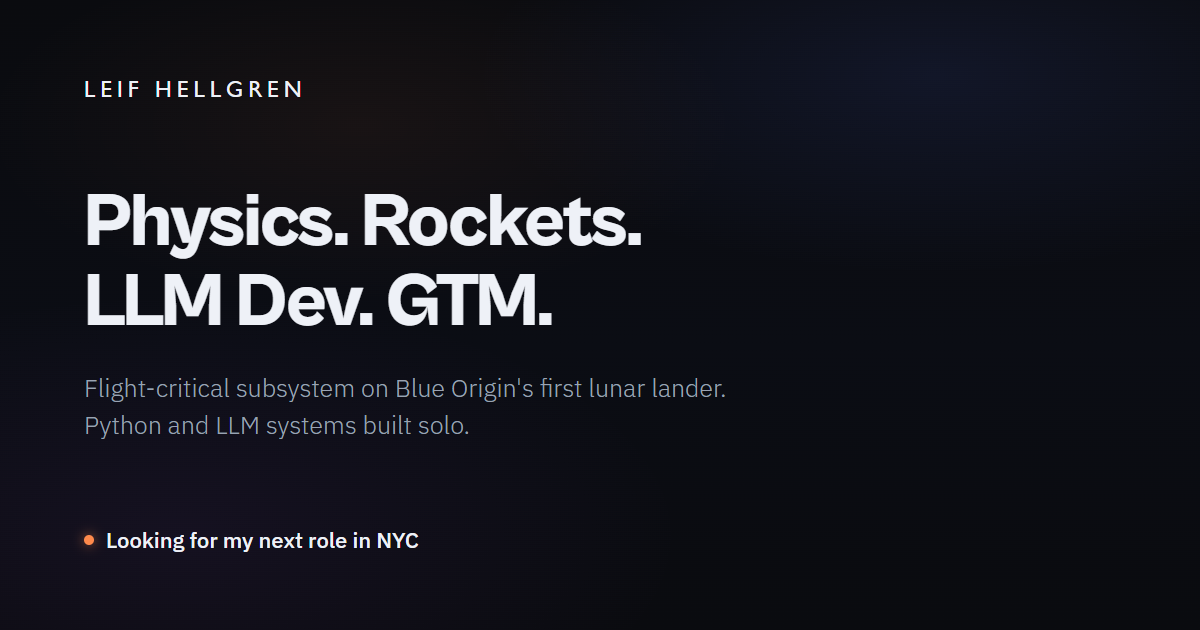
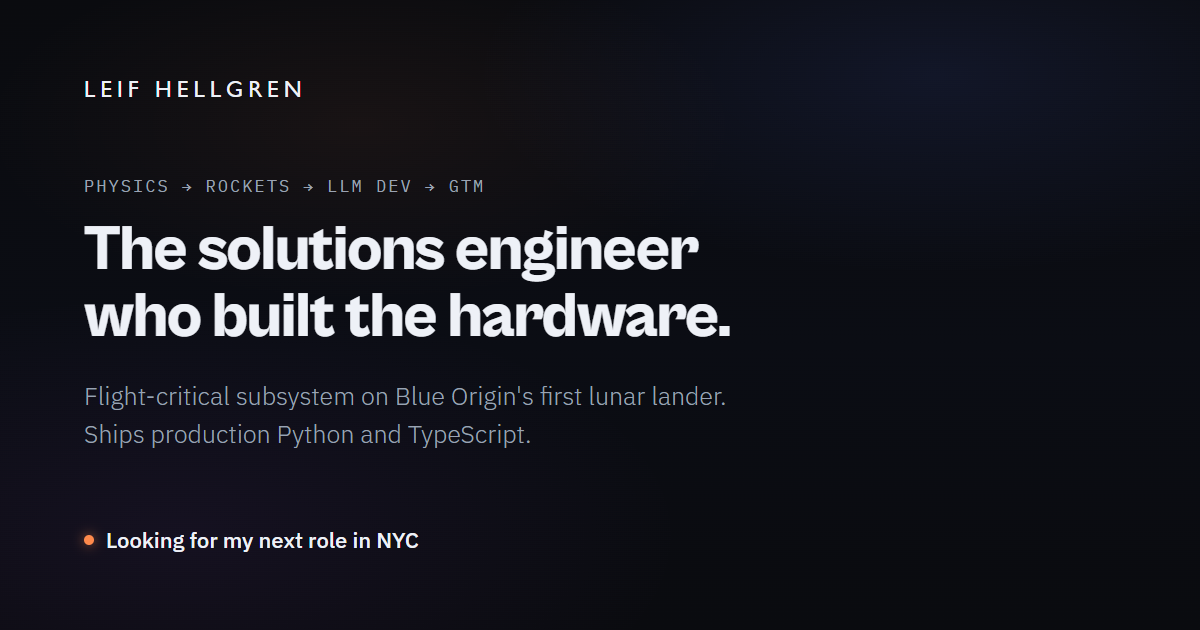
Reposition around one lane: solutions / forward-deployed engineering
The site was making four co-equal headline claims, which reads as optionality
to someone hiring for a specific slot. Same content, told as one story.

- headline states the lane and the differentiator in one sentence:
  'The solutions engineer who built the hardware.'
- the physics -> rockets -> LLM dev -> GTM arc is kept, promoted to a kicker
  above the headline, so it reads as trajectory and range rather than four
  competing claims. The four evidence lines below it are unchanged.
- Now card leads with the lane, and its bullets shift from role families
  ('here are four jobs I would take') to capabilities ('here is what I bring
  to one job'): debugging alongside a customer's engineers, shipping Python
  and TypeScript, building the GTM machinery, handling hard domains.
- #/now deep page targets solutions and forward-deployed engineering first,
  with GTM, AI tooling, quant, and propulsion below it as adjacent
- title, description, og, twitter, and JSON-LD jobTitle all say Solutions
  Engineer; og-card regenerated to match
- headline clamp retuned for the longer lines, verified 320-1920px

Physics, rockets, and trading are now the evidence under one claim rather
than four things competing to be the claim.

Changed region(s): [[0.0617, 0.2714, 0.6167, 0.5429], [0.0617, 0.6032, 0.6167, 0.7238], [0.37, 0.2714, 0.4008, 0.3016]]

diff --git a/index.html b/index.html
@@ -3,11 +3,11 @@
 <head>
 <meta charset="UTF-8" />
 <meta name="viewport" content="width=device-width, initial-scale=1.0" />
-<title>Leif Hellgren · Software Engineer</title>
-<meta name="description" content="Physics-trained engineer. Owned a flight-critical subsystem end to end on Blue Origin's first lunar lander, then built Python and LLM systems solo. Moving to NYC, September 2026." />
+<title>Leif Hellgren · Solutions Engineer</title>
+<meta name="description" content="Solutions and forward-deployed engineering. Owned a flight-critical subsystem on Blue Origin's first lunar lander, ships production Python and TypeScript, and builds the GTM machinery too. Moving to NYC, September 2026." />
 <meta name="author" content="Leif Hellgren" />
-<meta property="og:title" content="Leif Hellgren · Software Engineer" />
-<meta property="og:description" content="Physics at UCSB and founded its first rocket club. Flight-critical subsystem on Blue Origin's first lunar lander. Python and LLM systems built solo. Moving to NYC, September 2026." />
+<meta property="og:title" content="Leif Hellgren · Solutions Engineer" />
+<meta property="og:description" content="The solutions engineer who built the hardware. Flight-critical subsystem on Blue Origin's first lunar lander, production Python and TypeScript, and the outbound system at a startup. Moving to NYC, September 2026." />
 <meta property="og:type" content="website" />
 <meta property="og:site_name" content="Leif Hellgren" />
 <meta property="og:locale" content="en_US" />
@@ -46,10 +46,10 @@
   "name": "Leif Hellgren",
   "url": "https://leif-hellgren1.github.io/",
   "email": "mailto:leif@exelor.com",
-  "jobTitle": "Software Engineer",
-  "description": "Physics-trained engineer. Owned a flight-critical cryogenic subsystem end to end on Blue Origin's first lunar lander, then built Python and LLM systems independently.",
+  "jobTitle": "Solutions Engineer",
+  "description": "Solutions and forward-deployed engineer. Owned a flight-critical cryogenic subsystem end to end on Blue Origin's first lunar lander, then built Python and LLM systems independently.",
   "alumniOf": { "@type": "CollegeOrUniversity", "name": "University of California, Santa Barbara" },
-  "knowsAbout": ["Python", "TypeScript", "Next.js", "LLM systems", "Systems engineering", "Fluid and thermal analysis", "Go-to-market engineering"],
+  "knowsAbout": ["Solutions engineering", "Forward-deployed engineering", "Python", "TypeScript", "Next.js", "LLM systems", "Systems engineering", "Go-to-market engineering"],
   "sameAs": [
     "https://github.com/leif-hellgren1",
     "https://www.linkedin.com/in/leif-hellgren-a1177216a/"
@@ -295,11 +295,14 @@
     /* seat the disk into the dark: soft dark base + faint accent halo (scene shading, not UI color) */
     filter: drop-shadow(0 0 34px rgba(0,0,0,0.55)) drop-shadow(0 0 60px hsla(var(--p1,210),60%,55%,0.14));
   }
+  /* the trajectory, kept as a kicker: it shows range without competing with the headline
+     for what the role actually is */
+  .hero-glass .arc { color:var(--ink-dim); margin-bottom:var(--space-4); }
   .hero-glass h1 {
     font-family:"Cabinet Grotesk","IBM Plex Sans",sans-serif; font-weight:800;
-    /* sized so the longer line ("Physics. Rockets.") fits the column without wrapping at
-       every width; .hline below forbids wrapping, so this has to fit outright */
-    font-size:clamp(1.5rem,9.5vw,3.9rem); line-height:1.06; letter-spacing:-0.02em;
+    /* sized so the longer line ("who built the hardware.") fits the column without wrapping
+       at every width; .hline below forbids wrapping, so this has to fit outright */
+    font-size:clamp(1.2rem,7.2vw,2.95rem); line-height:1.06; letter-spacing:-0.02em;
   }
   /* one line when it fits; the only permitted break is between these two halves */
   .hero-glass h1 .hline { white-space:nowrap; }
@@ -570,7 +573,8 @@
       <!-- STOP 0 · HERO -->
       <div class="stop hero-stop" data-loc="top">
         <div class="hero-glass glass" id="heroGlass">
-          <h1><span class="hline">Physics. Rockets.</span> <span class="hline">LLM Dev. GTM.</span></h1>
+          <div class="mono arc">Physics &rarr; Rockets &rarr; LLM Dev &rarr; GTM</div>
+          <h1><span class="hline">The solutions engineer</span> <span class="hline">who built the hardware.</span></h1>
           <div class="tagline">
             <p>Studied physics at UCSB and founded its first rocket club.</p>
             <p>Delivered a flight-critical subsystem on a first-generation lunar lander at Blue Origin.</p>
@@ -595,12 +599,12 @@
             <span class="chip live">Actively seeking</span>
             <span class="chip moving">Moving to NYC Sept 2026</span>
           </div>
-          <p class="body">Most recently a contract at Launchpoint, split between product engineering and sales: shipped features into a live Next.js codebase, stood up the CRM, built an outbound system that booked qualified meetings. I build with agents and LLM tooling by default.</p>
+          <p class="body">Solutions and forward-deployed engineering, or GTM engineering: the roles where one person has to know the product deeply, build what the customer needs, and be credible in the room. Most recently a contract at Launchpoint split between product engineering and sales: shipped features into a live Next.js codebase, stood up the CRM, built an outbound system that booked qualified meetings.</p>
           <ul class="points">
-            <li>GTM and solutions engineering, technical sales</li>
-            <li>AI tooling and automation systems</li>
-            <li>Quant and trading technology, backtesting through execution</li>
-            <li>Propulsion, fluid systems, and systems engineering</li>
+            <li>Deep enough to debug alongside a customer's engineers</li>
+            <li>Ships production code in Python and TypeScript</li>
+            <li>Builds the GTM machinery too: CRM, outbound, scoring models</li>
+            <li>At home when the domain is hard, from cryogenics to market data</li>
           </ul>
           <a class="deep-link" href="#/now">Read more <span>→</span></a>
         </div>
@@ -1215,7 +1219,8 @@ const DEEP = {
     body: `
       <h3>Roles I'm targeting</h3>
       <ul>
-        <li><strong>GTM engineering, solutions engineering, and technical sales</strong>: I can go as deep as a customer's engineers, and the sales half of my Launchpoint contract showed me I genuinely enjoy the work.</li>
+        <li><strong>Solutions and forward-deployed engineering</strong>: I can go as deep as a customer's engineers, and the sales half of my Launchpoint contract showed me I genuinely enjoy the work.</li>
+        <li><strong>GTM engineering and technical sales</strong>, where the same person builds the tooling and runs the motion.</li>
         <li><strong>AI tooling and systems development</strong>, for teams that want someone who builds the automation rather than just using it.</li>
         <li><strong>Quant and trading technology</strong>: research tooling, backtesting infrastructure, and execution software.</li>
         <li><strong>Propulsion, fluid systems, mechanical, and systems engineering</strong>, where my flight-hardware ownership applies directly.</li>

diff --git a/tools/make-og.py b/tools/make-og.py
@@ -14,7 +14,7 @@ TEMPLATE = """
 <!DOCTYPE html><html><head><meta charset="utf-8">
 <link rel="preconnect" href="https://fonts.googleapis.com">
 <link rel="preconnect" href="https://fonts.gstatic.com" crossorigin>
-<link href="https://fonts.googleapis.com/css2?family=IBM+Plex+Sans:wght@300;500&family=Cabin:wght@500&display=swap" rel="stylesheet">
+<link href="https://fonts.googleapis.com/css2?family=IBM+Plex+Sans:wght@300;500&family=IBM+Plex+Mono:wght@400&family=Cabin:wght@500&display=swap" rel="stylesheet">
 <link href="https://api.fontshare.com/v2/css?f[]=cabinet-grotesk@800&display=swap" rel="stylesheet">
 <style>
   :root { --bg:#0a0b0f; --ink:#eef1f7; --ink-dim:#9aa3b2; --accent:#ff8a4c; }
@@ -32,7 +32,9 @@ TEMPLATE = """
   .name { font-family:"Gill Sans","Gill Sans MT","Cabin",sans-serif; font-weight:500;
           text-transform:uppercase; letter-spacing:0.22em; font-size:23px; color:var(--ink); }
   h1 { font-family:"Cabinet Grotesk","IBM Plex Sans",sans-serif; font-weight:800;
-       font-size:76px; line-height:1.05; letter-spacing:-0.02em; color:var(--ink); }
+       font-size:64px; line-height:1.05; letter-spacing:-0.02em; color:var(--ink); }
+  .arc { font-family:"IBM Plex Mono",monospace; font-size:17px; letter-spacing:0.12em;
+         text-transform:uppercase; color:var(--ink-dim); margin-bottom:20px; }
   p  { margin-top:26px; font-size:25px; line-height:1.5; color:var(--ink-dim); max-width:44ch; font-weight:300; }
   .foot { display:flex; align-items:center; gap:12px; font-size:22px; color:var(--ink); font-weight:500; }
   .dot { width:10px; height:10px; border-radius:50%; background:var(--accent);
@@ -42,8 +44,9 @@ TEMPLATE = """
   <div class="wrap">
     <div class="name">Leif Hellgren</div>
     <div>
-      <h1>Physics. Rockets.<br>LLM Dev. GTM.</h1>
-      <p>Flight-critical subsystem on Blue Origin's first lunar lander. Python and LLM systems built solo.</p>
+      <div class="arc">Physics &rarr; Rockets &rarr; LLM Dev &rarr; GTM</div>
+      <h1>The solutions engineer<br>who built the hardware.</h1>
+      <p>Flight-critical subsystem on Blue Origin's first lunar lander. Ships production Python and TypeScript.</p>
     </div>
     <div class="foot"><span class="dot"></span>Looking for my next role in NYC</div>
   </div>
